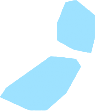
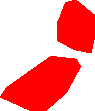
kaart update

diff --git a/app.js b/app.js
@@ -1,36 +1,81 @@
 const mapContainer = document.getElementById('map-container');
 
+// Add a mousemove event listener to the map container
+mapContainer.addEventListener('mousemove', event => {
+    // Update the position of the tooltip element to follow the cursor
+    tooltip.style.left = `${event.clientX + 10}px`;
+    tooltip.style.top = `${event.clientY + 10}px`;
+});
+
+// Add a mouseover event listener to each province image element
+
+function addTooltip(img, name, status) {
+    img.addEventListener('mouseover', event => {
+        // Set the text content of the tooltip element to the province name
+        tooltip.textContent = name + " - Fase " + status;
+        // Make the tooltip element visible
+        tooltip.classList.add('visible');
+
+    });
+    img.addEventListener('mouseout', event => {
+        // Hide the tooltip element
+        tooltip.classList.remove('visible');
+    });
+}
+
 const fields = [
-    {"name": "Brabant noord", "file": "brabant-noord.png", "x": 218, "y": 486},
-    {"name": "Brabant zuid-oost", "file": "brabant-zuidoost.png", "x": 212, "y": 539},
-    {"name": "Drenthe", "file": "drenthe.png", "x": 326, "y": 222},
-    {"name": "Flevoland", "file": "flevoland.png", "x": 213, "y": 286},
-    {"name": "Friesland", "file": "fryslan.png", "x": 239, "y": 190},
-    {"name": "Gelderland midden", "file": "gelderland-midden.png", "x": 266, "y": 402},
-    {"name": "Gelderland zuid", "file": "gelderland-zuid.png", "x": 209, "y": 456},
-    {"name": "Noord- en oost-gelderland", "file": "noord-en-oost-gelderland.png", "x": 275, "y": 353},
-    {"name": "Gooi en Vechtstreek", "file": "gooi-en-vechtstreek.png", "x": 201, "y": 389},
-    {"name": "Groningen", "file": "groningen.png", "x": 339, "y": 177},
-    {"name": "Haaglanden", "file": "haaglanden.png", "x": 95, "y": 412},
-    {"name": "IJsselland", "file": "ijsselland.png", "x": 302, "y": 284},
-    {"name": "Kennemerland", "file": "kennemerland.png", "x": 142, "y": 344},
-    {"name": "Limburg noord", "file": "limburg-noord.png", "x": 276, "y": 500},
-    {"name": "Limburg zuid", "file": "zuid-limburg.png", "x": 273, "y": 624},
-    {"name": "Hollands midden", "file": "hollands-midden.png", "x": 128, "y": 396},
-    {"name": "Midden en West Brabant", "file": "midden-en-west-brabant.png", "x": 105, "y": 480},
-    {"name": "Noord Holland noord", "file": "noord-holland-noord.png", "x": 161, "y": 226},
-    {"name": "Twente", "file": "twente.png", "x": 348, "y": 363},
-    {"name": "Utrecht", "file": "utrecht.png", "x": 175, "y": 396},
-    {"name": "Zeeland", "file": "zeeland.png", "x": 0, "y": 500},
+    { "name": "Brabant-Noord", "file": "brabant-noord.png", "x": 218, "y": 486, "status": 1 },
+    { "name": "Brabant-Zuidoost", "file": "brabant-zuidoost.png", "x": 212, "y": 539, "status": 1 },
+    { "name": "Drenthe", "file": "drenthe.png", "x": 326, "y": 222, "status": 1 },
+    { "name": "Flevoland", "file": "flevoland.png", "x": 213, "y": 286, "status": 1 },
+    { "name": "Fryslân", "file": "fryslan.png", "x": 239, "y": 190, "status": 1 },
+    { "name": "Gelderland Midden", "file": "gelderland-midden.png", "x": 266, "y": 402, "status": 1 },
+    { "name": "Gelderland Zuid", "file": "gelderland-zuid.png", "x": 209, "y": 456, "status": 1 },
+    { "name": "Noord- en Oost-Gelderland", "file": "noord-en-oost-gelderland.png", "x": 275, "y": 353, "status": 1 },
+    { "name": "Gooi en Vechtstreek", "file": "gooi-en-vechtstreek.png", "x": 201, "y": 389, "status": 1 },
+    { "name": "Groningen", "file": "groningen.png", "x": 339, "y": 177, "status": 1 },
+    { "name": "Haaglanden", "file": "haaglanden.png", "x": 95, "y": 412, "status": 1 },
+    { "name": "IJsselland", "file": "ijsselland.png", "x": 302, "y": 284, "status": 1 },
+    { "name": "Kennemerland", "file": "kennemerland.png", "x": 142, "y": 344, "status": 1 },
+    { "name": "Limburg-Noord", "file": "limburg-noord.png", "x": 276, "y": 500, "status": 1 },
+    { "name": "Zuid-Limburg", "file": "zuid-limburg.png", "x": 273, "y": 624, "status": 1 },
+    { "name": "Hollands Midden", "file": "hollands-midden.png", "x": 128, "y": 396, "status": 1 },
+    { "name": "Midden en West-Brabant", "file": "midden-en-west-brabant.png", "x": 105, "y": 480, "status": 1 },
+    { "name": "Noord-Holland-Noord", "file": "noord-holland-noord.png", "x": 161, "y": 226, "status": 1 },
+    { "name": "Twente", "file": "twente.png", "x": 348, "y": 363, "status": 1 },
+    { "name": "Utrecht", "file": "utrecht.png", "x": 175, "y": 396, "status": 1 },
+    { "name": "Zeeland", "file": "zeeland.png", "x": 0, "y": 500, "status": 2 },
 ];
 
-fields.forEach(field => {
-    const img = new Image();
-    img.src = `./assets/${field.file}`;
-    img.classList.add('province');
-    img.onload = () => {
-        img.style.left = `${field.x}px`;
-        img.style.top = `${field.y}px`;
-        mapContainer.appendChild(img);
-    };
-});
+fetch('https://natuurbrandrisico.scorchchamp.com/')
+    .then(response => response.json())
+    .then(data => {
+        // Use data object keys
+        Object.keys(data).forEach(province => {
+            const field = fields.find(field => field.name === province);
+            if (!field) return;
+            switch (data[province]) {
+                case "Fase 1":
+                    field.status = 1;
+                    break;
+                case "Fase 2":
+                    field.status = 2;
+                    break;
+                default:
+                    field.status = 0;
+                    break;
+            }
+            const img = new Image();
+            img.src = `./assets/${field.file}`;
+            img.classList.add('province');
+            img.onload = () => {
+                img.style.left = `${field.x}px`;
+                img.style.top = `${field.y}px`;
+                img.classList.add(`status${field.status}`);
+                mapContainer.appendChild(img);
+            };
+            addTooltip(img, field.name, field.status);
+        });
+    });
+
+

diff --git a/style.css b/style.css
@@ -2,10 +2,43 @@
 .province {
     position: absolute;
     transition: all 0.1s ease-in-out;
-    filter: grayscale(1)
+    /* filter: brightness(0.3) invert(); */
 }
 
-.province:hover {
-    filter: brightness(1.1);
-
+.status1:hover {
+    filter: brightness(0.2) invert();
 }
+
+
+.status1 {
+    filter: brightness(0.5) invert();
+}
+
+
+.status2:hover {
+    filter: brightness(0.8);
+}
+
+.status0 {
+    filter: brightness(0);
+}
+
+.tooltip {
+    position: absolute;
+    z-index: 9999;
+    background-color: #fff;
+    /* border: 1px solid #000; */
+    padding: 10px;
+    box-shadow: 2px 2px 5px rgba(0, 0, 0, 0.3);
+    font-size: 14px;
+    white-space: nowrap;
+    pointer-events: none;
+    opacity: 0;
+    transition: opacity 0.2s ease-in-out;
+    font-family: 'Roboto', sans-serif;
+  }
+  
+  .tooltip.visible {
+    opacity: 1;
+  }
+  

diff --git a/index.html b/index.html
@@ -6,8 +6,8 @@
     <link rel="stylesheet" href="style.css">
 </head>
 <body>
-    <div class="map-container" id="map-container">
-    </div>
+    <div class="map-container" id="map-container"></div>
+    <div class="tooltip" id="tooltip"></div>
     <script src="app.js"></script>
 </body>
 </html>
